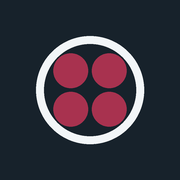
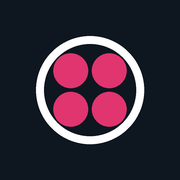
v6.72: koyu tema kalıcı ve tek tema oldu, kalan sabit renkler temizlendi
Kullanıcının kararı: v6.71'in denemesi sistem tercihine bağlı kalmayacak,
koyu tema varsayılan/tek tema oluyor. @media bloğu kaldırılıp değerler
doğrudan :root'a taşındı. Deneme aşamasında dokunulmamış ~15 sabit
açık-tema rengi (durum rozetleri, tehlike/uyarı kutuları) koyu temaya
uyacak şekilde güncellendi. Bu sırada gerçek bir kontrast hatası bulundu:
.tazelekutu a sabit beyaz zemin üzerinde var(--ink) kullanıyordu, koyu
temada okunmaz olurdu -- yazı rengi sabitlendi. Favicon/PWA ikonları yeni
palet ile yeniden üretildi.

Claude-Session: https://claude.ai/code/session_01LHiJRtPqzwWN8G9gpAx1u8

Changed region(s): [[0.2778, 0.2778, 0.7222, 0.7222]]

diff --git a/static/style.css b/static/style.css
@@ -1,20 +1,22 @@
+/* Koyu tema kalıcı ve TEK tema oldu (v6.72, kullanıcının kararı --
+   v6.71'de sistem tercihine bağlı bir deneme olarak eklenmişti, README
+   v6.71 ve v6.72'de gerekçe). Sistem açık temalı olsa da olmasa da program
+   hep bu renklerle açılıyor -- ayrı bir açık tema kalmadı. */
 :root {
-  --ink:      #17222b;
-  --ink-2:    #5a6b77;
-  --ink-3:    #8b9aa4;
-  --line:     #d6dee3;
-  --yuzey:    #ffffff;
-  --zemin:    #eef2f4;
-  --vurgu:    #a8324f;
-  --vurgu-ac: #f3e3e7;
-  --uyari:    #b4530e;
-  --uyari-ac: #fbeee2;
-  /* Ust bant, kimlik bandi, aktif sekme gibi "hep koyu kalan" ogeler
-     `--ink`'i arka plan olarak kullaniyor (bu ekranda metin degil, kasa
-     rengi). Aciktan koyu temaya geciste `--ink` metin rengine donusunce
-     bu ogeler beyaza donmesin diye ayri bir degisken (v6.71 denemesi,
-     README v6.71). Acik temada `--ink` ile ayni deger, gorunum degismiyor. */
-  --ust-bg:   var(--ink);
+  --ink:      #e9eef3;
+  --ink-2:    #9fb0bc;
+  --ink-3:    #67788a;
+  --line:     #263341;
+  --yuzey:    #172230;
+  --zemin:    #0e1620;
+  --vurgu:    #e0356f;
+  --vurgu-ac: #3a1f2c;
+  --uyari:    #e2924a;
+  --uyari-ac: #3a2a17;
+  /* Ust bant, kimlik bandi, aktif sekme gibi ogeler `--ink`'i degil bunu
+     kullaniyor (v6.71) -- kasa hep ayni koyu lacivert kalsin, `--ink`
+     (artik acik renk) metin icin ayri tutuluyor. */
+  --ust-bg:   #111a25;
   --r: 6px;
   /* Genis ekranda icerik sutunu. Yan menu solda 200px yer kapliyor,
      500px pay onunla carpismayi onluyor. Formul TEK yerde: kimlik bandinin
@@ -24,31 +26,6 @@
      kalir. Hem `.kap.genis.yanmenusuz` hem kimlik bandinin hizasi bunu
      kullaniyor -- iki ayri sayi olsaydi band ile kartlar kayardi. */
   --genis-sutun-menusuz: 940px;
-}
-
-/* Koyu tema DENEMESI (v6.71) -- kullanicinin gonderdigi ekran goruntusune
-   gore. Sistem tercihine bagli (`prefers-color-scheme`): kimse elle bir
-   sey secmiyor, degistirmiyor da -- acik temadaki hicbir sey bundan
-   etkilenmiyor. Yalnizca bu degiskenler degisiyor, geri kalan CSS'in
-   TAMAMI onlari kullandigi icin kartlar/butonlar/kenarliklar kendiliginden
-   uyum sagliyor. Kapsam disi kalanlar (bilerek, README v6.71'de yazili):
-   birkac sabit renk kullanan durum rozeti (iptal/tamamlandi gibi) ve resmi
-   form sayfasi (`form.html` -- o zaten hep beyaz kagit basacak, kalibi
-   degistirmiyoruz). Bu tema kalici mi olacak kullaniciya sorulacak. */
-@media (prefers-color-scheme: dark) {
-  :root {
-    --ink:      #e9eef3;
-    --ink-2:    #9fb0bc;
-    --ink-3:    #67788a;
-    --line:     #263341;
-    --yuzey:    #172230;
-    --zemin:    #0e1620;
-    --vurgu:    #e0356f;
-    --vurgu-ac: #3a1f2c;
-    --uyari:    #e2924a;
-    --uyari-ac: #3a2a17;
-    --ust-bg:   #111a25;
-  }
 }
 
 * { box-sizing: border-box; }
@@ -210,7 +187,7 @@ body {
    Sinif acikca veriliyor; `:has()` eski Safari'de yok, telefonda baslik
    bozulmasin. */
 .kart h2.ikili { display: flex; align-items: center; justify-content: space-between; gap: 8px; }
-.kart h2.ikili .rozet { background: #e4eae7; color: #2c5545; border-radius: 3px;
+.kart h2.ikili .rozet { background: #17342a; color: #8fe3b8; border-radius: 3px;
   padding: 2px 7px; font-size: 11px; font-weight: 600; }
 
 /* Takvimde gun basligi. Kart basliklarindan daha koyu ve buyuk: listeye
@@ -271,11 +248,11 @@ body {
    orasi sari, bu turuncu -- "bilgi" ile "dikkat" birbirine benzemesin.
    Satir ici, sabit degil: gecici bir olay degil sayfanin o anki durumu. */
 .uyari.birlikte {
-  border-color: #e4a33a;
-  background: #fdf3e3;
-  color: #6b4a12;
+  border-color: #5a4020;
+  background: #3a2a17;
+  color: #f0c98a;
 }
-.uyari.birlikte b { color: #8a4b00; }
+.uyari.birlikte b { color: #f4d9a8; }
 
 /* Baska bir cihazdan kayit girildiginde cikan serit (v6.54). Sayfa
    kendiliginden yenilenmiyor cunku kullanici bir seye yaziyor -- serit
@@ -300,7 +277,10 @@ body {
 .tazelekutu a {
   flex: 0 0 auto;
   padding: 8px 16px;
-  background: #fff; color: var(--ink);
+  /* Zemin sabit beyaz -- yazi rengi `var(--ink)` OLMAMALI: koyu temada
+     --ink acik renge donunce beyaz zemin uzerinde okunmaz olurdu (v6.72'de
+     yakalandi). Sabit koyu deger, temadan bagimsiz. */
+  background: #fff; color: #17222b;
   border-radius: var(--r); text-decoration: none; font-weight: 600;
 }
 @media (min-width: 640px) {
@@ -510,7 +490,7 @@ form { margin: 0; }
 /* --- uyarı --- */
 .uyari {
   background: var(--uyari-ac);
-  border: 1px solid #e6c4a3;
+  border: 1px solid #5a4020;
   border-radius: var(--r);
   padding: 12px 14px;
   font-size: 14px;
@@ -701,7 +681,7 @@ body.kilitli { overflow: hidden; }
   background: none; border: 0; color: var(--ink-2); cursor: pointer;
 }
 .bilgikart .rozet {
-  background: #e4eae7; color: #2c5545; border-radius: 3px;
+  background: #17342a; color: #8fe3b8; border-radius: 3px;
   padding: 2px 7px; font-size: 11px; font-weight: 600;
 }
 
@@ -744,11 +724,11 @@ body.kilitli { overflow: hidden; }
 
 /* --- silme / arsiv --- */
 .tehlike {
-  background: #fbe9e9; border: 1px solid #e0b4b4; border-radius: var(--r);
-  padding: 12px 14px; font-size: 14px; margin-top: 12px; color: #7a2020;
+  background: #3a1c1c; border: 1px solid #5c2a2a; border-radius: var(--r);
+  padding: 12px 14px; font-size: 14px; margin-top: 12px; color: #ff9b9b;
 }
-.dugme.tehlikeli { background: #a11f1f; }
-.dugme.ikincil.tehlike-bag { color: #a11f1f; }
+.dugme.tehlikeli { background: #c62f2f; }
+.dugme.ikincil.tehlike-bag { color: #ff9b9b; }
 /* Kucuk dugmenin ikincil hali: "Sil" ile "Pasif yap" ayni agirlikta gorunmesin,
    pasif yapmak normal yol (v6.11). */
 .minidugme.ikincil {
@@ -756,7 +736,7 @@ body.kilitli { overflow: hidden; }
   color: var(--ink);
   border: 1px solid var(--line);
 }
-.minidugme.ikincil.tehlike-bag { color: #a11f1f; }
+.minidugme.ikincil.tehlike-bag { color: #ff9b9b; }
 /* Rozetin ortak bicimi. Onceden yalnizca `.kimlik` ve `.bilgikart` icinde
    tanimliydi; liste satirlarindaki `.rozet.arsiv` yalin metin gibi cikiyor,
    koyu zemine koyu yazi biniyordu (v6.28'de goruldu). Ozel yerlerin kendi
@@ -783,7 +763,7 @@ body.kilitli { overflow: hidden; }
   display: flex; justify-content: center; gap: 20px; padding: 12px 8px;
 }
 .bilgikart .sfalt a {
-  color: #a11f1f; font-size: 13px; text-decoration: underline;
+  color: #ff9b9b; font-size: 13px; text-decoration: underline;
 }
 .bilgikart .sfalt a[hidden] { display: none; }
 
@@ -803,8 +783,8 @@ body.kilitli { overflow: hidden; }
 .serit.sade .sn { cursor: default; }
 .serit.sade .sn i { margin-left: 5px; }
 
-.serit .sn.dolu { background: #e4eae7; color: var(--ink); border-color: #b9c9c2; }
-.serit .sn.deg  { background: #f3e0e0; color: #7a2020; border-color: #ddb9b9; }
+.serit .sn.dolu { background: #17342a; color: #8fe3b8; border-color: #2c5641; }
+.serit .sn.deg  { background: #3a1c1c; color: #ff9b9b; border-color: #5c2a2a; }
 .serit .sn.aktif { outline: 3px solid var(--vurgu); outline-offset: -1px;
                    font-weight: 700; color: var(--ink); }
 
@@ -912,11 +892,11 @@ body.kilitli { overflow: hidden; }
   padding: 10px 14px; font-size: 14px; margin-bottom: 10px; color: var(--ink-2);
 }
 .zaman strong { color: var(--ink); }
-.zaman.sapma { background: var(--uyari-ac); border-color: #e6c4a3; color: #7a4410; }
+.zaman.sapma { background: var(--uyari-ac); border-color: #5a4020; color: #f0c98a; }
 
 .fotoalt { display: flex; justify-content: center; gap: 20px; padding: 8px 0 2px; }
 .fotoalt a { font-size: 13px; text-decoration: underline; color: var(--ink-2); }
-.fotoalt a:first-child { color: #a11f1f; }
+.fotoalt a:first-child { color: #ff9b9b; }
 
 .gunsec { display: flex; gap: 8px; padding: 12px 0 4px; }
 .gunsec a {
@@ -1148,7 +1128,7 @@ body.kilitli { overflow: hidden; }
 }
 .onum b { font-weight: 600; }
 .onum i { font-style: normal; font-size: 11px; color: var(--ink-2); margin-top: 1px; }
-.onum.dolu { background: #e4eae7; border-color: #b9c9c2; }
+.onum.dolu { background: #17342a; border-color: #2c5641; }
 .onum.hedef { outline: 3px solid var(--vurgu); outline-offset: -1px; font-weight: 700; }
 .onum:active { background: var(--zemin); }
 

diff --git a/simge_uret.py b/simge_uret.py
@@ -18,9 +18,9 @@ dosya hem normal hem maskable olarak kullanılabiliyor.
 """
 from PIL import Image, ImageDraw
 
-ZEMIN = (23, 34, 43)        # --ink
-ZONA = (242, 246, 248)
-HUCRE = (168, 50, 79)       # --vurgu
+ZEMIN = (14, 22, 32)         # --zemin (v6.72'de koyu tema kalici oldu)
+ZONA = (255, 255, 255)
+HUCRE = (224, 53, 111)       # --vurgu
 KAT = 4                     # once buyuk ciz, sonra kucult: kenarlar puruzsuz
 
 

diff --git a/README.md b/README.md
@@ -6688,3 +6688,54 @@ tek tema mı yoksa sistem tercihine bağlı mı kalacağı da sonra netleşecek.
   kullanıcıya gönderildi. Açık temada yalnızca amblemin eklendiği,
   başka hiçbir şeyin değişmediği doğrulandı.
 - Deneme oturumu geri alındı.
+
+# v6.72 — koyu tema kalıcı ve tek tema oldu
+
+Kullanıcı v6.71'deki denemeyi (ekran görüntüleriyle) inceledi, karar
+**"2"**: koyu tema sistem tercihine bağlı kalmasın, **varsayılan/tek tema**
+olsun. Açık tema tamamen kaldırıldı.
+
+## Ne yapıldı
+
+- `@media (prefers-color-scheme: dark)` bloğu kaldırıldı, içindeki değerler
+  doğrudan `:root`'a taşındı. Artık tek bir renk seti var.
+- **Kalan sabit-renkli parçalar temizlendi.** v6.71'de "deneme" olduğu için
+  bilerek dokunulmamış ~15 sabit renk vardı — artık kalıcı olduğu için hepsi
+  koyu temaya uyacak şekilde güncellendi:
+  - Yeşil "dolu/kaydedildi" rozetleri (`.kart h2.ikili .rozet`,
+    `.bilgikart .rozet`, `.serit .sn.dolu`, `.onum.dolu`) — kullanıcının
+    kendi gönderdiği ekran görüntüsündeki "Kaydediidi" etiketinin tam
+    karşılığı, en görünür olanlardı.
+  - Kırmızı "dikkat/tehlike" renkleri (`.serit .sn.deg`, `.tehlike`,
+    `.dugme.tehlikeli`, `.tehlike-bag` bağlantıları, `.sfalt`/`.fotoalt`
+    silme bağlantıları) — koyu kart üzerinde eski soluk kırmızı okunmuyordu.
+  - Turuncu uyarı renkleri (`.uyari.birlikte`, `.zaman.sapma`, `.uyari`
+    kenarlığı) — metin koyu kahverengiydi, koyu zeminde neredeyse görünmüyordu.
+  - Hepsi tek tek elle seçildi (sabit değerler, değişken değil) çünkü her
+    biri farklı bir "durum" rengi (yeşil/kırmızı/turuncu) taşıyor — tek bir
+    `--vurgu`'ya indirgemek anlamlarını birbirine karıştırırdı.
+- **Gerçek bir hata bulundu ve düzeltildi**: `.tazelekutu a` (başka bir
+  cihazdan kayıt girildiğinde çıkan şeritteki bağlantı) zemini sabit beyazdı
+  ama yazı rengi `var(--ink)` kullanıyordu. v6.71'de --ink açık renge
+  dönünce bu buton **beyaz zemin üzerinde beyaza yakın yazı** olurdu —
+  okunmaz. Yazı rengi şimdi sabit koyu (`#17222b`). Ekranda hiç tetiklenmedi
+  (eş zamanlı düzenleme gerektiriyor), kod taranarak bulundu.
+- `simge_uret.py`'deki `ZEMIN`/`ZONA`/`HUCRE` değerleri yeni palete
+  güncellendi, favicon/PWA ikonları (`static/ikon_180/192/512.png`)
+  yeniden üretildi — artık koyu zemin + beyaz halka + pembe dört nokta.
+- `CLAUDE.md`'ye kalıcı kural olarak yazıldı: yeni bileşen yazarken renk
+  sabitleme, `--ink`/`--ust-bg` ayrımına dikkat et, sabit zeminde sabit yazı
+  kullan (bu sürümde tam bunun tersi bir hata bulunduğu için özellikle).
+
+## Test edildi
+
+- Playwright ile (artık `color_scheme` zorlamaya gerek yok, tek tema)
+  ana ekran (dar + geniş), denüdasyon ekranı (numara şeridi, "Kaydedildi"
+  rozeti — kullanıcının orijinal ekran görüntüsüyle karşılaştırıldı) ve
+  hasta silme ekranı (tehlike kutusu) görüldü — hepsi okunaklı, renkler
+  tutarlı.
+- Kod tarandı: önceki tüm sabit açık-tema renkleri (`#e4eae7`, `#a11f1f`,
+  `#fdf3e3` vb.) style.css'te aratıldı, geriye yalnızca temadan bağımsız
+  kalması gereken ikisi bırakıldı (fotoğraf silme rozeti, `.kagit` yazdırma
+  kutusu).
+- Deneme oturumu geri alındı.

diff --git a/CLAUDE.md b/CLAUDE.md
@@ -704,6 +704,38 @@ kullanıcıdan her güncellemede "sert yenile" hatırlamasını istemek kırılg
 **Yeni bir statik dosya (ikinci bir `.css`/`.js`) eklersen aynı deseni kullan**
 — sabit adresle bağlama, tuzak listesine eklenecek kadar ucuz bir hata.
 
+**Tasarım koyu tema, tek tema** (v6.71'de sistem tercihine bağlı bir deneme
+olarak başladı, v6.72'de kullanıcının kararıyla kalıcı ve tek tema oldu —
+gerekçe README v6.71–72). Açık tema artık **yok**; `:root`'taki renkler
+doğrudan koyu değerler, ayrıca bir `@media (prefers-color-scheme)` bloğu da
+yok.
+- **Bütün tasarım CSS değişkenleri üzerinden kurulu** (`--ink`, `--yuzey`,
+  `--vurgu`, ...) — yeni bir bileşen yazarken renk sabit yazma, hep bu
+  değişkenleri kullan. Sabit yazılan her renk koyu temada iki türlü patlar:
+  ya kendisi yanlış görünür ya da bir komşu değişkenle (`var(--ink)` gibi)
+  eşleşmesi gereken bir varsayımı sessizce kırar.
+- **`--ink` metin rengi, `--ust-bg` kasa rengi — ikisini karıştırma.** Üst
+  bant, kimlik bandı, aktif sekme gibi öğeler hep koyu kalması gereken
+  "kasa" — onlar `var(--ust-bg)` kullanıyor. `--ink` **metin** için: koyu
+  temada açık renk. Yeni bir "hep koyu duracak" öge yazarsan `--ink` değil
+  `--ust-bg` kullan, yoksa metin rengiyle aynı değişkeni paylaşınca öge
+  temayla birlikte (yanlışlıkla) rengini değiştirir.
+- **Zemin sabit bir renkse (`background: #fff` gibi, `.tazelekutu a` veya
+  `.kagit` — resmî form kâğıdı bilerek beyaz kalıyor), üzerindeki yazı rengi
+  de sabit olmalı, `var(--ink)` OLMAMALI.** v6.72'de tam bunun tersi
+  bulundu: `.tazelekutu a` zemini sabit beyazdı ama yazısı `var(--ink)`
+  kullanıyordu — koyu tema gelince yazı da açık renge dönüp beyaz zemin
+  üzerinde okunmaz oldu. Yeni bir bileşen yazarken zemin sabitse yazı da
+  sabit olsun.
+- **Amblem (üst banttaki halka + dört nokta) PNG değil, satır içi SVG**
+  (`base.html`, `.ust` içinde) — dört nokta `fill="var(--vurgu)"` kullanıyor,
+  ayrı bir dosya üretmeye gerek yok. `simge_uret.py`'nin çizdiği favicon/PWA
+  ikonları (`static/ikon_*.png`) PNG olduğu için tema değişemiyor — onlar
+  koyu zeminle sabitlendi, tasarım değişirse ikisini birlikte güncelle.
+- **Resmî form ekranı (`/form/...`) dışarıda** — kâğıt aslı hep beyaz
+  basılacak, `.kagit` sınıfı sabit `#fff`/`#000` kullanıyor, koyu temadan
+  etkilenmiyor. Yeni bir yazdırma ekranı yazarsan aynı şekilde sabit tut.
+
 **Ekran kendini tazeler** (v6.54). Klinikte birkaç telefon aynı anda kayıt
 giriyor; masaüstünde açık duran sayfa elle yenilenene kadar eski kalıyordu.
 Veri hep anında kaydoluyordu — eski olan sayfaydı. `base.html`'deki
